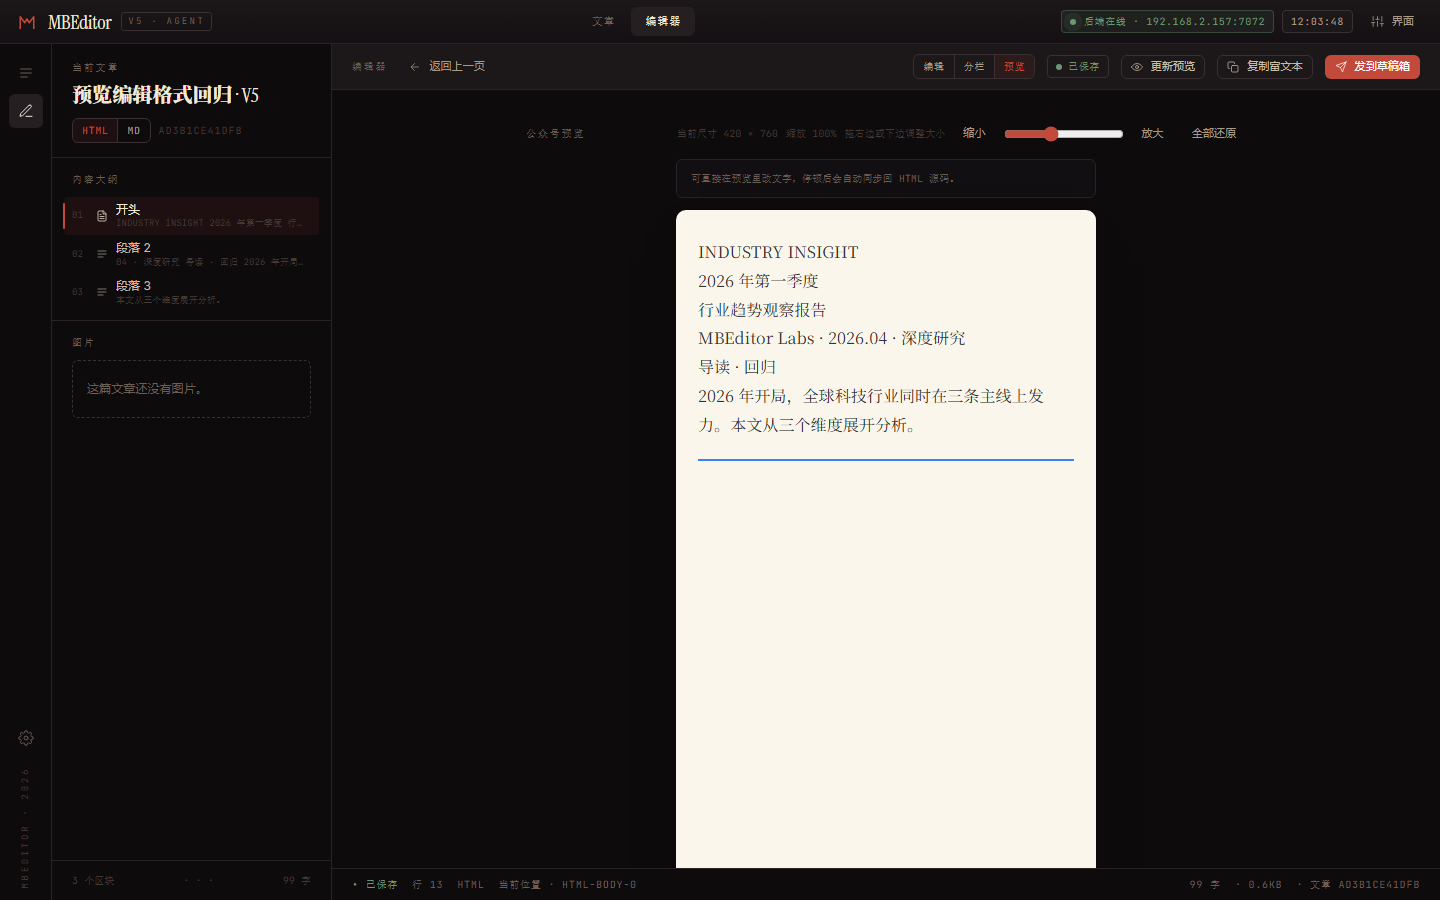
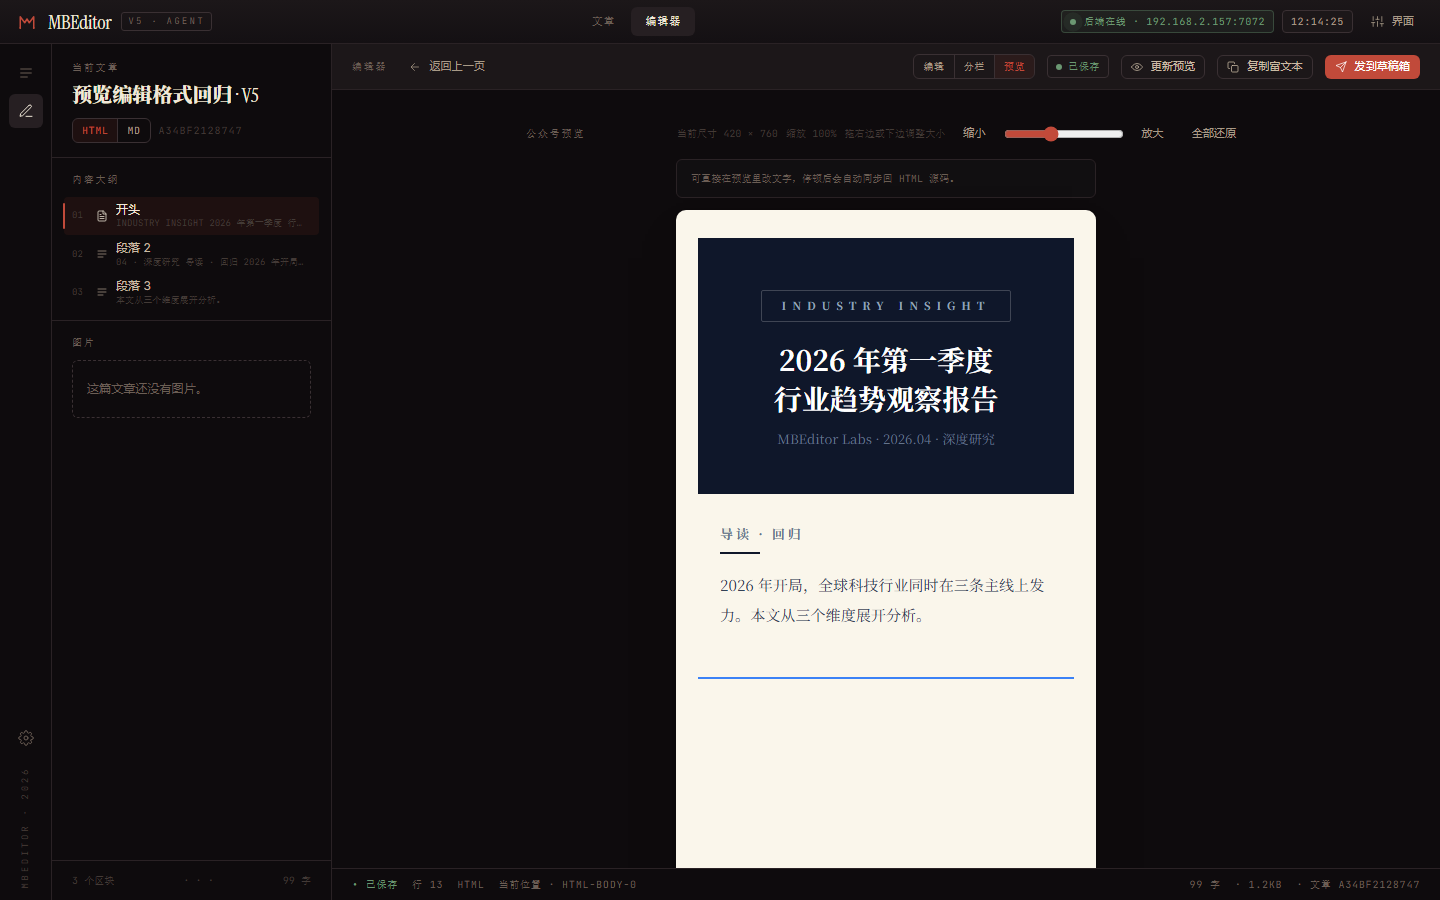
Harden V5 before tag — first-run seed, markdown XSS guard, preview sanitizer
Three gaps surfaced during the pre-release review; close all three in one
commit so the v5.0 tag ships a clean story.

- **First-run seed**: backend previously relied on an operator script to make
  the five showcase templates visible after a fresh docker compose up, so the
  README promise that they "show up on first open" was technically a lie.
  backend/app/services/showcase_seed.py drops idempotent seeding into the
  lifespan; it prefers the image-bundled backend/app/seeds/ copy but falls
  back to the in-repo docs/cli/examples/templates/ for dev mode. Existing
  ARTICLES_DIR contents are never touched.
- **Markdown XSS guard**: render_markdown_source flipped markdown-it to
  html=False so a user-authored <script> / onerror=... in a Markdown article
  is written to storage as escaped text, not live HTML. publish still
  sanitizes too, but the stored artifact itself is now safe.
- **Preview paste sanitizer**: cleanPreviewFallback was previously permissive
  enough that pasting from Word / Notion / the open web could land a <script>
  or javascript:-href inside draft.html through the structural-edit fallback.
  The fallback now hard-removes a dangerous-tag blocklist (script/iframe/
  object/embed/link/meta/style/base/frame/frameset), strips every on* inline
  handler, and scrubs javascript:/vbscript:/data:text/html URLs off href/
  src/xlink:href attributes. Text and safe attributes survive.
[…]

diff --git a/frontend/src/surfaces/editor/CenterStage.test.tsx b/frontend/src/surfaces/editor/CenterStage.test.tsx
@@ -532,4 +532,66 @@ describe("CenterStage", () => {
     // The cosmetic publish-pipeline envelope must not leak back into the source.
     expect(nextHtml).not.toContain('word-wrap:break-word');
   });
+
+  it("strips script tags and event handlers when a structural edit falls through the sanitizer", () => {
+    vi.useFakeTimers();
+    const onFieldChange = vi.fn();
+
+    render(
+      <CenterStage
+        articleId="draft-1"
+        canGoBack
+        draft={DRAFT}
+        view="preview"
+        setView={vi.fn()}
+        tab="html"
+        setTab={vi.fn()}
+        saveState="saved"
+        selected="body"
+        navigationRequest={null}
+        previewHtml={PROCESSED_PREVIEW_HTML}
+        previewLoading={false}
+        previewError={null}
+        publishing={false}
+        copying={false}
+        onBack={vi.fn()}
+        onFieldChange={onFieldChange}
+        onRefreshPreview={vi.fn()}
+        onCopyRichText={vi.fn()}
+        onPublish={vi.fn()}
+      />
+    );
+
+    const editable = screen.getByTestId("preview-editable-content");
+    (editable as HTMLDivElement).innerHTML = [
+      '<section style="font-size:16px; line-height:1.8; color:#333;">',
+      "<p>safe paragraph</p>",
+      '<p>boom <img src="x" onerror="alert(1)"></p>',
+      '<p>link <a href="javascript:alert(2)">click</a></p>',
+      '<script>alert(3)</script>',
+      '<iframe src="https://evil.example.com"></iframe>',
+      "<p>tail</p>",
+      "</section>",
+    ].join("");
+    fireEvent.input(editable);
+
+    act(() => {
+      vi.advanceTimersByTime(500);
+    });
+
+    expect(onFieldChange).toHaveBeenCalled();
+    const [[, merged]] = onFieldChange.mock.calls;
+
+    // Dangerous tags removed outright.
+    expect(merged).not.toContain("<script");
+    expect(merged).not.toContain("<iframe");
+    // Inline event handlers stripped, but the carrier element survives.
+    expect(merged).toContain("<img");
+    expect(merged).not.toContain("onerror");
+    // javascript: URL scrubbed off the anchor.
+    expect(merged).not.toContain("javascript:");
+    // The safe text around the malicious payload makes it through.
+    expect(merged).toContain("safe paragraph");
+    expect(merged).toContain("tail");
+  });
 });

diff --git a/frontend/src/surfaces/editor/CenterStage.tsx b/frontend/src/surfaces/editor/CenterStage.tsx
@@ -165,12 +165,47 @@ function copyTextContent(sourceNode: Node, previewNode: Node) {
   });
 }
 
+const DANGEROUS_TAGS = new Set([
+  "SCRIPT",
+  "IFRAME",
+  "OBJECT",
+  "EMBED",
+  "LINK",
+  "META",
+  "STYLE",
+  "BASE",
+  "FRAME",
+  "FRAMESET",
+]);
+
 function cleanPreviewFallback(doc: Document) {
-  doc.body.querySelectorAll("[style],[class],[contenteditable]").forEach((node) => {
-    if (!(node instanceof HTMLElement)) return;
-    node.removeAttribute("style");
-    node.removeAttribute("class");
-    node.removeAttribute("contenteditable");
+  // Structural edits fall through here, so treat anything the user could have
+  // pasted from a rich-text source (Notion, Word, the open web) as untrusted.
+  // Drop executable/navigation tags outright, strip ``on*`` inline handlers, and
+  // neutralize ``javascript:`` / ``data:text/html`` URLs. Style/class/contenteditable
+  // still go because the publish pipeline owns cosmetic styling.
+  doc.body.querySelectorAll("*").forEach((node) => {
+    if (!(node instanceof Element)) return;
+    if (DANGEROUS_TAGS.has(node.tagName)) {
+      node.remove();
+      return;
+    }
+    for (const name of Array.from(node.getAttributeNames())) {
+      if (name.startsWith("on")) {
+        node.removeAttribute(name);
+        continue;
+      }
+      if (name === "style" || name === "class" || name === "contenteditable") {
+        node.removeAttribute(name);
+        continue;
+      }
+      if (name === "href" || name === "src" || name === "xlink:href") {
+        const value = (node.getAttribute(name) ?? "").trim().toLowerCase();
+        if (value.startsWith("javascript:") || value.startsWith("vbscript:") || value.startsWith("data:text/html")) {
+          node.removeAttribute(name);
+        }
+      }
+    }
   });
   return doc.body.innerHTML.trim();
 }

diff --git a/docs/screenshots/nas-styled-after.html b/docs/screenshots/nas-styled-after.html
@@ -1,13 +1,13 @@
-<section><section>
-  <section>
-    <section>INDUSTRY INSIGHT</section>
-    <section>2026 年第一季度<br>行业趋势观察报告</section>
-    <section>MBEditor Labs · 2026.04 · 深度研究</section>
+<section style="padding:0;background:#FAF6EB;">
+  <section style="background-color:#0f172a;padding:52px 28px 44px;text-align:center;">
+    <section style="display:inline-block;padding:5px 20px;border:1px solid rgba(255,255,255,0.2);border-radius:2px;color:#94a3b8;font-size:11px;letter-spacing:6px;font-weight:bold;margin-bottom:18px;">INDUSTRY INSIGHT</section>
+    <section style="font-size:28px;font-weight:bold;color:#ffffff;line-height:1.4;margin-bottom:10px;">2026 年第一季度<br>行业趋势观察报告</section>
+    <section style="font-size:13px;color:#64748b;line-height:1.7;">MBEditor Labs · 2026.04 · 深度研究</section>
   </section>
-  <section>
-    <section>导读 · 回归</section>
-    <section></section>
-    <section>2026 年开局，全球科技行业同时在三条主线上发力。本文从三个维度展开分析。</section>
+  <section style="padding:28px 22px;">
+    <section style="font-size:13px;color:#64748b;letter-spacing:3px;font-weight:bold;margin-bottom:6px;">导读 · 回归</section>
+    <section style="width:40px;height:2px;background-color:#0f172a;margin-bottom:16px;"></section>
+    <section style="font-size:15px;line-height:2;color:#334155;">2026 年开局，全球科技行业同时在三条主线上发力。本文从三个维度展开分析。</section>
   </section>
   <svg width="100%" height="40" viewBox="0 0 400 40"><line x1="0" y1="20" x2="400" y2="20" stroke="#3b82f6" stroke-width="2"></line></svg>
-</section></section>
+</section>

diff --git a/backend/app/services/showcase_seed.py b/backend/app/services/showcase_seed.py
@@ -1,0 +1,100 @@
+"""First-run seeding of the five V5 showcase articles.
+
+Runs idempotently on every backend boot. When the articles directory is empty,
+load the bundled templates under ``docs/cli/examples/templates/tpl_*.json`` and
+stamp them into storage so the article list has content on first open.
+
+Skipping conditions:
+- ARTICLES_DIR already has at least one article file (users get to curate).
+- Templates directory missing (e.g. stripped-down deployment).
+"""
+from __future__ import annotations
+
+import json
+import logging
+import uuid
+from datetime import datetime, timezone
+from pathlib import Path
+from typing import Iterable
+
+from app.core.config import settings
+
+
+logger = logging.getLogger(__name__)
+
+
+def _articles_dir() -> Path:
+    return Path(settings.ARTICLES_DIR)
+
+
+def _templates_dir() -> Path | None:
+    # Template resolution, in preference order:
+    # 1. ``backend/app/seeds/`` — bundled inside the backend image for Docker.
+    # 2. ``<repo>/docs/cli/examples/templates/`` — available when running from
+    #    the source tree (dev mode, uv run, etc.).
+    here = Path(__file__).resolve()
+    candidates: list[Path] = [here.parent.parent / "seeds"]
+    for parents in (3, 4, 5):
+        try:
+            candidates.append(here.parents[parents] / "docs" / "cli" / "examples" / "templates")
+        except IndexError:
+            break
+    for path in candidates:
+        if path.is_dir() and any(path.glob("tpl_*.json")):
+            return path
+    return None
+
+
+def _iter_template_files(directory: Path) -> Iterable[Path]:
+    # Stable seed order by filename so first/last timestamps match README copy.
+    return sorted(directory.glob("tpl_*.json"))
+
+
+def seed_showcase_templates_if_empty() -> int:
+    """Return the number of articles written (``0`` if the dir was non-empty)."""
+    articles_dir = _articles_dir()
+    articles_dir.mkdir(parents=True, exist_ok=True)
+    if any(articles_dir.glob("*.json")):
+        return 0
+
+    templates_dir = _templates_dir()
+    if templates_dir is None:
+        logger.info("Showcase templates not found — skipping first-run seed.")
+        return 0
+
+    seeded = 0
+    now = datetime.now(timezone.utc)
+    for index, template_path in enumerate(_iter_template_files(templates_dir)):
+        try:
+            raw = json.loads(template_path.read_text(encoding="utf-8"))
+        except (OSError, json.JSONDecodeError) as exc:
+            logger.warning("Skipping broken template %s: %s", template_path.name, exc)
+            continue
+
+        article_id = uuid.uuid4().hex[:12]
+        # Space timestamps 5 min apart so sort-by-updated preserves listing order.
+        stamp = now.replace(microsecond=0).isoformat()
+        article = {
+            "id": article_id,
+            "title": raw.get("title") or template_path.stem,
+            "mode": raw.get("mode", "html"),
+            "html": raw.get("html", ""),
+            "css": raw.get("css", ""),
+            "js": raw.get("js", ""),
+            "markdown": raw.get("markdown", ""),
+            "cover": raw.get("cover", ""),
+            "author": raw.get("author", ""),
+            "digest": raw.get("digest", ""),
+            "created_at": stamp,
+            "updated_at": stamp,
+        }
+        out = articles_dir / f"{article_id}.json"
+        out.write_text(json.dumps(article, ensure_ascii=False), encoding="utf-8")
+        seeded += 1
+        # Advance so the next iteration has a fresh second-resolution timestamp
+        # even when the filesystem clock is slow.
+        now = now.replace(microsecond=0)
+
+    if seeded:
+        logger.info("Seeded %d showcase articles into %s", seeded, articles_dir)
+    return seeded

diff --git a/backend/tests/test_showcase_seed.py b/backend/tests/test_showcase_seed.py
@@ -1,0 +1,69 @@
+from __future__ import annotations
+
+import json
+from pathlib import Path
+
+import pytest
+
+from app.services.showcase_seed import seed_showcase_templates_if_empty
+
+
+@pytest.fixture(autouse=True)
+def _isolate_articles(tmp_path, monkeypatch):
+    from app.core import config as config_mod
+
+    monkeypatch.setattr(config_mod.settings, "ARTICLES_DIR", str(tmp_path / "articles"))
+    yield
+
+
+def test_seeds_five_templates_when_dir_is_empty():
+    count = seed_showcase_templates_if_empty()
+    assert count == 5
+
+    from app.core import config as config_mod
+
+    articles = sorted(Path(config_mod.settings.ARTICLES_DIR).glob("*.json"))
+    assert len(articles) == 5
+    titles = [json.loads(a.read_text(encoding="utf-8"))["title"] for a in articles]
+    # All five showcase template titles must appear, regardless of seed order.
+    for needle in ("极简商务", "科技霓虹", "活力撞色", "文艺手札", "杂志专栏"):
+        assert any(needle in t for t in titles), f"missing template: {needle} — got {titles}"
+
+
+def test_skips_when_articles_dir_has_content(tmp_path, monkeypatch):
+    from app.core import config as config_mod
+
+    existing = Path(config_mod.settings.ARTICLES_DIR)
+    existing.mkdir(parents=True, exist_ok=True)
+    (existing / "existing.json").write_text(
+        json.dumps({
+            "id": "existing",
+            "title": "user's own",
+            "mode": "html",
+            "html": "",
+            "css": "",
+            "js": "",
+            "markdown": "",
+            "cover": "",
+            "author": "",
+            "digest": "",
+            "created_at": "2026-04-20T00:00:00+00:00",
+            "updated_at": "2026-04-20T00:00:00+00:00",
+        }),
+        encoding="utf-8",
+    )
+
+    count = seed_showcase_templates_if_empty()
+    assert count == 0
+    # User's own article must be untouched.
+    assert (existing / "existing.json").exists()
+    assert len(list(existing.glob("*.json"))) == 1
+
+
+def test_handles_missing_templates_gracefully(tmp_path, monkeypatch):
+    from app.services import showcase_seed
+
+    monkeypatch.setattr(showcase_seed, "_templates_dir", lambda: None)
+
+    count = showcase_seed.seed_showcase_templates_if_empty()
+    assert count == 0

diff --git a/backend/app/main.py b/backend/app/main.py
@@ -11,6 +11,7 @@ from app.api.v1.router import api_router
 from app.core.config import settings
 from app.core.exceptions import register_exception_handlers
 from app.core.response import fail
+from app.services.showcase_seed import seed_showcase_templates_if_empty
 
 logging.basicConfig(level=logging.INFO)
 logger = logging.getLogger(__name__)
@@ -33,6 +34,12 @@ def ensure_data_directories() -> None:
 async def lifespan(app: FastAPI):
     ensure_data_directories()
     logger.info("Data directories ensured.")
+    try:
+        seeded = seed_showcase_templates_if_empty()
+        if seeded:
+            logger.info("First-run showcase seed wrote %d articles.", seeded)
+    except Exception:  # pragma: no cover - defensive, first-run must never fail boot
+        logger.exception("Showcase seeding failed, continuing with empty article list.")
     yield
     logger.info("Application shutdown complete.")
 

diff --git a/backend/app/services/renderers/markdown_renderer.py b/backend/app/services/renderers/markdown_renderer.py
@@ -113,10 +113,16 @@ def _simple_markdown_to_html(source: str) -> str:
 
 
 def render_markdown_source(source: str) -> str:
+    # Keep ``html=False`` so stray ``<script>``/``<iframe>``/``on*`` attributes
+    # embedded in a user's Markdown source are rendered as escaped text rather
+    # than live HTML when this output is written back to ``article.html``.
+    # Callers that want raw HTML should use ``mode=html`` explicitly; the publish
+    # pipeline also re-sanitizes before handing anything to WeChat, but we keep
+    # the stored artifact safe on its own.
     try:
         from markdown_it import MarkdownIt  # type: ignore
 
-        return MarkdownIt("commonmark", {"html": True}).render(source)
+        return MarkdownIt("commonmark", {"html": False}).render(source)
     except Exception:
         return _simple_markdown_to_html(source)
 

diff --git a/backend/tests/test_html_markdown_renderers.py b/backend/tests/test_html_markdown_renderers.py
@@ -42,3 +42,17 @@ def test_render_markdown_source_supports_basic_emphasis():
     assert "<strong>" in html
     assert "<em>" in html
     assert "<code>" in html
+
+
+def test_render_markdown_source_escapes_raw_html_as_text():
+    # Users in mode=markdown should never get a live <script> or on*= injected
+    # into stored article.html just by typing it in the source.
+    html = render_markdown_source(
+        '<script>alert(1)</script>\n\n<img src="x" onerror="alert(2)">\n\nPlain *text*.'
+    )
+    # Executable tags must be HTML-escaped, not passed through.
+    assert "<script>" not in html
+    assert "&lt;script&gt;" in html
+    assert "onerror=\"alert(2)\"" not in html
+    # Normal markdown (inline emphasis) still works.
+    assert "<em>text</em>" in html

diff --git a/CHANGELOG.md b/CHANGELOG.md
@@ -28,6 +28,16 @@ All notable changes to MBEditor will be documented in this file.
 - 启动时统一 `ensure_data_directories()` 创建 images / articles / mbdocs / config.json 父目录。
 - `PUT /articles/{id}` 在 `mode=markdown` 且只收到 Markdown 时自动用 markdown renderer 同步 HTML，便于 CLI/API 调用方只传 Markdown。
 
+### Added — 文章列表删除按钮
+- 列表每行末尾新增 🗑 按钮，点击触发 `window.confirm` → `DELETE /articles/{id}`；同步清理 `currentArticleId`，删当前编辑中的文章不会留下悬挂引用。
+
+### Added — 首次启动自动 seed 五篇模板
+- backend 启动若检测到 `ARTICLES_DIR` 为空，从 `backend/app/seeds/tpl_*.json` 把五套示例模板种进去；已有内容绝不覆盖。模板同时保留在仓库根 `docs/cli/examples/templates/`，便于 dev 模式和 CLI 复用。
+
+### Security — 预览粘贴的 XSS 护栏
+- `cleanPreviewFallback` 从「只剥 style/class/contenteditable」升级为完整黑名单：`<script>/<iframe>/<object>/<embed>/<link>/<meta>/<style>/<base>/<frame>/<frameset>` 直接移除；`on*` 内联事件处理器一律 strip；`href/src/xlink:href` 中的 `javascript:` / `vbscript:` / `data:text/html` 协议一律清除。保留父元素文本和安全属性。
+- `render_markdown_source` 关闭 markdown-it 的 `html: true`，Markdown 里内嵌的 `<script>` / `<img onerror>` 一律被当作文本转义输出，不会以活 HTML 写入 `article.html`。publish 管道仍会做一遍 sanitize，但现在存储态本身也是安全的。
+
 ### Changed — 版本号
 - backend `pyproject.toml`、`APP_VERSION`、frontend `package.json`、BrandLogo、README 徽章、Settings 页面全部统一到 `5.0.0`；测试用例改用 `APP_VERSION` 常量而非硬编码字符串。
 
